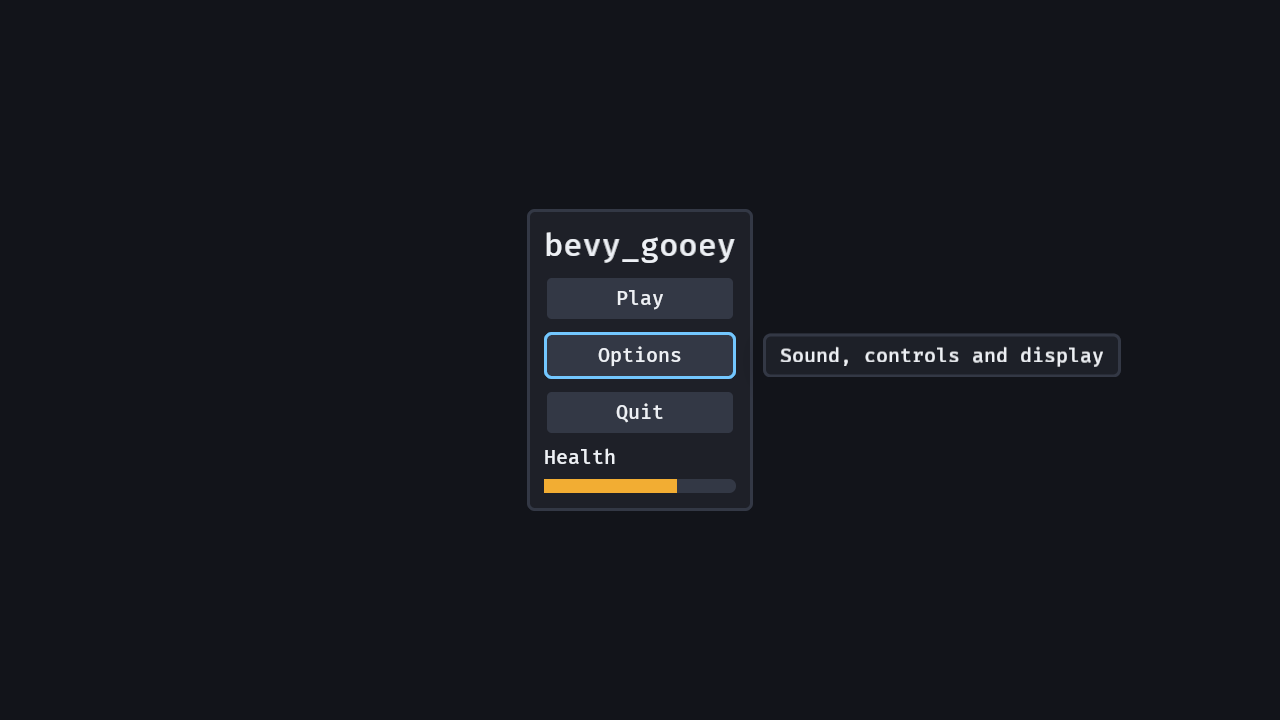
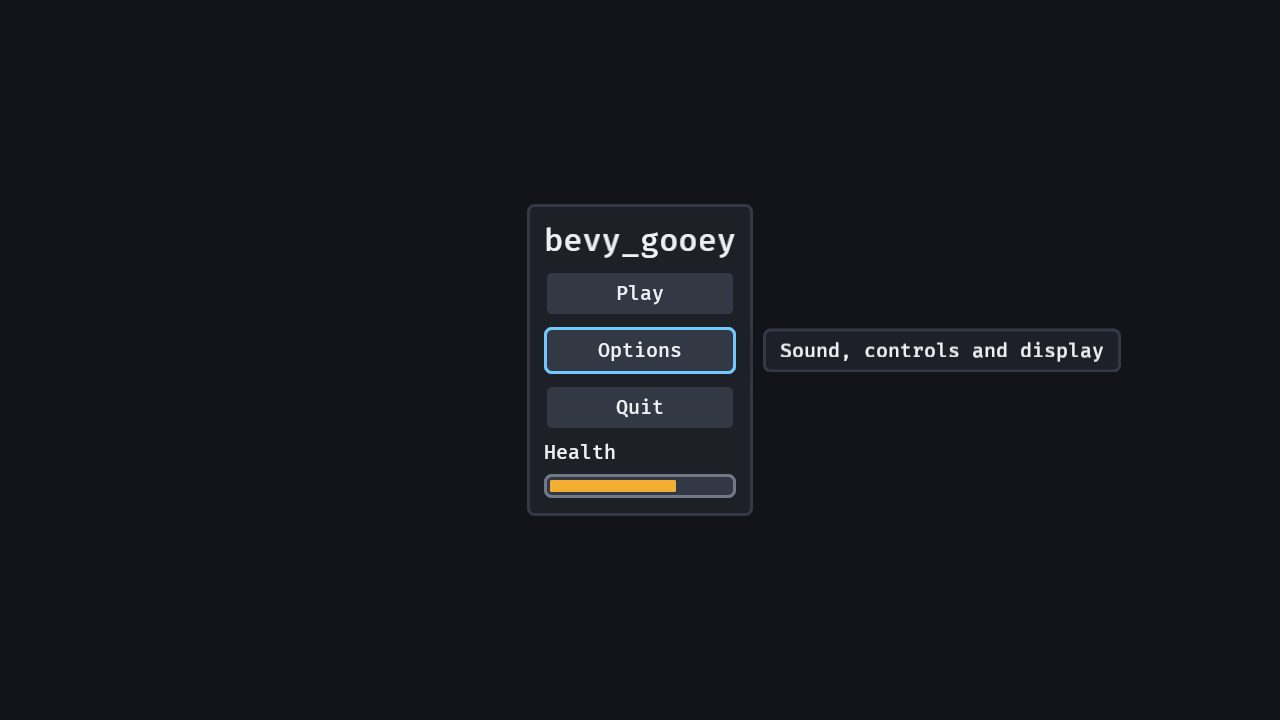
WIP(pass 9, checkpoint): tree saved by the driver, never committed to a branch
Not gated, not on any branch, and not seen by the pass: the index and HEAD are untouched.
Recover with: git -C /home/ladvien/bevy_gooey_loop show refs/wiggum/pass-9-checkpoint-20261030-122343

Changed region(s): [[0.4062, 0.275, 0.875, 0.7333]]

diff --git a/tests/meter.rs b/tests/meter.rs
@@ -73,12 +73,24 @@ fn a_fill_sits_inside_its_frame_with_a_gap_all_round_and_concentric_corners() {
     let (outer, inner) = (rect(&app, track), rect(&app, fill));
     let inset = 2.0 * skin.border;
     // The frame and the gap on every side: the fill never touches the frame or pokes out.
-    assert!((inner.min.x - outer.min.x - inset).abs() < 0.5, "{outer:?} {inner:?}");
-    assert!((inner.min.y - outer.min.y - inset).abs() < 0.5, "{outer:?} {inner:?}");
-    assert!((outer.max.y - inner.max.y - inset).abs() < 0.5, "{outer:?} {inner:?}");
+    assert!(
+        (inner.min.x - outer.min.x - inset).abs() < 0.5,
+        "{outer:?} {inner:?}"
+    );
+    assert!(
+        (inner.min.y - outer.min.y - inset).abs() < 0.5,
+        "{outer:?} {inner:?}"
+    );
+    assert!(
+        (outer.max.y - inner.max.y - inset).abs() < 0.5,
+        "{outer:?} {inner:?}"
+    );
     // As long as its value says, of the room inside the frame and gap.
     let room = outer.width() - 2.0 * inset;
-    assert!((inner.width() - 0.6 * room).abs() < 1.0, "{outer:?} {inner:?}");
+    assert!(
+        (inner.width() - 0.6 * room).abs() < 1.0,
+        "{outer:?} {inner:?}"
+    );
     // Framed in a colour the panel cannot hide.
     assert_eq!(
         app.world().get::<BorderColor>(track),

diff --git a/src/skin.rs b/src/skin.rs
@@ -589,8 +589,7 @@ fn restyle(
             // inside it, on the track, because no one colour contrasts with both.
             Role::Meter => {
                 next.height = Val::Px(skin.meter_height * skin.text_scale);
-                next.min_width =
-                    Val::Px(skin.text_size * skin.text_scale * METER_MIN_TEXT_SIZES);
+                next.min_width = Val::Px(skin.text_size * skin.text_scale * METER_MIN_TEXT_SIZES);
                 next.border = UiRect::all(Val::Px(skin.border));
                 next.padding = UiRect::all(Val::Px(skin.border));
                 next.border_radius = radius;

diff --git a/docs/research/meter.md b/docs/research/meter.md
@@ -10,7 +10,8 @@ Researched 2026-10-30 (iteration 3, begun by a pass that was cut off; its draft 
 4. Material Components for Android, *Progress indicators* — https://github.com/material-components/material-components-android/blob/master/docs/components/ProgressIndicator.md (technical: a shipping design system's bar meter, and how it met the non-text contrast rule).
 5. W3C WAI, *Understanding SC 1.4.11: Non-text Contrast* (WCAG 2.2) — https://www.w3.org/WAI/WCAG22/Understanding/non-text-contrast.html (technical).
 6. W3C, *CSS Backgrounds and Borders Module Level 3*, §4.2 *Corner Shaping* and §4.3 *Corner Clipping* — https://www.w3.org/TR/css-backgrounds-3/ (technical: how a rounded box and its contents are meant to be drawn).
-7. Bevy 0.20 source: `bevy_ui-0.20.1/src/layout/clipping.rs` (a child is clipped with `push_rect`, a rectangle) and `ui_node.rs` (`Node` requires `BorderColor`; `clamp_corner` clamps a radius to half the box) (technical: what the engine does).
+7. Bevy 0.20 source: `bevy_ui-0.20.1/src/layout/clipping.rs` (a child is clipped with `push_rect`, a rectangle), `ui_node.rs` (`Node` requires `BorderColor`) and `bevy_ui_render-0.20.1/src/ui.wesl` (`sd_inset_rounded_box` draws a border's inner curve at the outer radius less the border, as CSS does) (technical: what the engine does).
+8. Material Design 3, *Color roles* — https://m3.material.io/styles/color/the-color-system/key-colors-tones (technical: "There are two outline colors to be used against a surface: Outline: Important boundaries, such as a text field outline.").
 
 ## Craft principle
 
@@ -29,10 +30,10 @@ Material's bar meter met WCAG's non-text contrast rule by separating the parts o
 ## Model adopted
 
 - **M1. The fill is drawn inside the track, with the track's corner shape.** CSS §4.3: "other effects that clip painting … must clip to their respective curves. For example … overflow values other than visible to the curved padding edge". Bevy 0.20 does not: `clipping.rs` clips a child to a rectangle, so a rounded track with `Overflow::clip()` still shows its fill's square corners. The fill therefore carries its own radius.
-- **M2. The track's whole length is marked at 3:1 against the panel, by a frame.** WCAG 1.4.11 asks 3:1 for "Parts of graphics required to understand the content", and the track's length is required to read the value. No single track colour can sit 3:1 from both the panel and the fill in either preset (dark: the track would need a relative luminance ≥ 0.144 against the panel and ≤ 0.131 against the amber fill; parchment: ≤ 0.179 against the panel and ≥ 0.318 against the oxblood fill). So, as Material did, the parts that cannot contrast are kept apart: the track gets a frame `border` px wide in `text_muted` (the panel's line weight, and the same thickness as the focus ring), and the fill sits one `border` inside that frame, on the track's own fill (`surface_raised`), the gap Material calls `indicatorTrackGapSize`. The frame against the panel carries the extent; the fill against the track carries the value. Understanding 1.4.11 passes the same anatomy for a radio button: "an inner filled circle with a gap between it and the outer border."
+- **M2. The track's whole length is marked at 3:1 against the panel, by a frame.** WCAG 1.4.11 asks 3:1 for "Parts of graphics required to understand the content", and the track's length is required to read the value. No single track colour can sit 3:1 from both the panel and the fill in either preset (dark: the track would need a relative luminance ≥ 0.144 against the panel and ≤ 0.131 against the amber fill; parchment: ≤ 0.179 against the panel and ≥ 0.318 against the oxblood fill). So, as Material did, the parts that cannot contrast are kept apart: the track gets a frame `border` px wide in `GooeySkin::outline` (the panel's line weight, and the same thickness as the focus ring), and the fill sits one `border` inside that frame, on the track's own fill (`surface_raised`), the gap Material calls `indicatorTrackGapSize`. The frame against the panel carries the extent; the fill against the track carries the value. Understanding 1.4.11 passes the same anatomy for a radio button: "an inner filled circle with a gap between it and the outer border."
 - **M3. The corners are concentric.** CSS §4.2: "The padding edge (inner border) radius is the outer border radius minus the corresponding border thickness. In the case where this results in a negative value, the inner radius is zero." And: "Likewise the content edge radius is the padding edge radius minus the corresponding padding, or if that is negative, zero." The frame's inner radius is `radius − border` (Bevy draws that itself); the fill fills the content box, so its radius is that minus the gap, `max(radius − 2 × border, 0)`.
 - **M4. The meter grows with the player's size option.** Its height is `GooeySkin::meter_height × text_scale`, as *The Last of Us Part II*'s HUD Scale enlarges HUD elements, so at 1.5× the bar keeps its proportion to the label above it. The frame and gap stay `border`, like every other line in the skin.
-- **M5. A skin is checked for both.** `GooeySkin::problems` checks `accent` (the fill) against `surface_raised` (the track) and `text_muted` (the frame) against the panel, each at 3:1.
+- **M5. A skin is checked for both.** `GooeySkin::problems` checks `accent` (the fill) against `surface_raised` (the track) and `outline` (the frame) against the panel, each at 3:1, and reports a meter whose frame and gap leave no room for a fill.
 
 ## Parameters
 
@@ -40,7 +41,8 @@ Material's bar meter met WCAG's non-text contrast rule by separating the parts o
 - Frame and gap: `GooeySkin::border` (3 px) each. A design default resting on "one visual language": the panel border and the focus ring are 3 px.
 - Radii: track 8 (`radius`), track interior 5 (Bevy's inner radius), fill `max(8 − 6, 0)` = 2.
 - Least length: 8 text sizes, `8 × text_size × text_scale` (160 px at 1×, the old fixed least width; 240 px at 1.5×). A design default.
-- Contrast, computed from the presets' colours: fill on track dark 6.04:1, parchment 4.68:1; frame (`text_muted`) on the panel dark 6.63:1, parchment 4.63:1.
+- Frame colour: the new `GooeySkin::outline`, dark `srgb(0.44, 0.47, 0.54)`, parchment `srgb(0.48, 0.38, 0.27)`: about 3.7:1 against the panel in both skins, just over 3:1 with a margin for antialiasing, so the meter's frame stays quieter than the focus ring (6.3:1 on the raised surface). A design default.
+- Contrast, computed from the presets' colours: fill on track dark 6.04:1, parchment 4.68:1; frame on the panel dark 3.67:1, parchment 3.79:1.
 
 ## Validation targets
 
@@ -50,7 +52,7 @@ Material's bar meter met WCAG's non-text contrast rule by separating the parts o
 - At `text_scale` 1.5 the meter is 36 px high (before: 14 px, under a 30 px label).
 - A meter near empty (fill narrower than twice its radius) draws a small rounded sliver inside the frame, not nothing.
 - The fill's length stays proportional: `fill / interior width` = value / max within 1 px.
-- `problems()` stays empty for both presets; an accent equal to `surface_raised` reports `accent on surface_raised`; a `text_muted` equal to the panel reports `text_muted on surface`.
+- `problems()` stays empty for both presets; an accent equal to `surface_raised` reports `accent on surface_raised`; an `outline` equal to the panel reports `outline on surface`; a frame and gap that fill the whole meter report `MeterTooThin`.
 - No frame-time cost: the same two nodes; a border, a radius and padding set once by `apply_skin`.
 
 ## What great looks like
@@ -62,9 +64,9 @@ A health bar a player reads from the couch at a glance: a framed slot with the p
 - Bevy's rectangular clip is the deviation from CSS §4.3; the crate rounds the fill itself (M1) instead of relying on the track's clip.
 - The meter's height moves from the widget (`height: 14px`) into the skin, per the crate's rule that only `apply_skin` sizes a widget. Default 24 px (was 14) to make room for the frame and the gap; a design default.
 - Material marks the track's end with a 4 dp stop dot; this crate frames the whole track instead. A frame marks both ends, keeps the skin's one line weight, and a 3 px line survives couch distance where a 4 px dot is easy to lose; it is also how framed game health bars are drawn. A design choice, recorded.
-- `text_muted` gains a second job (a disabled button's text and a meter's frame) rather than adding a colour to the skin. One fewer field for a project to set; `problems()` checks it for the frame's job.
+- The frame has a colour of its own, `GooeySkin::outline`, as Material 3's *Outline* role ("Important boundaries"). Drawn in `text_muted` first (6.6:1 in the dark skin), the frame was as bright and as thick as the focus ring and the meter read as a text field or a second focus (`/tmp/g3b/r1/dark.png`); `outline` is set at about 3.7:1 instead. Later widgets whose fill does not show their size (a checkbox's box, a slider's track) take the same colour.
 
 ## Pending index
 
-- Index Hodent's GDC 2015 write-up, Naughty Dog's accessibility post and Material's progress indicator page into home-still.
+- Index Hodent's GDC 2015 write-up, Naughty Dog's accessibility post, Material's progress indicator page and Material 3's colour roles into home-still.
 - Searched and not found in the corpus: a shipped game's write-up on health-bar framing ("health bar HUD meter design readability", "progress bar track and fill contrast"). A GDC talk on HUD bar design would replace Material as the shipping-game source for M2.

diff --git a/CHANGELOG.md b/CHANGELOG.md
@@ -4,7 +4,7 @@
 
 ### Added
 
-- `GooeySkin`, the look as serde data, with the `dark()` and `parchment()` presets, a `text_scale` player option, `problems()` (WCAG 2.2 contrast and target-size checks, as `SkinProblem`) and `solid_surface()`, the opaque fill of a panel in a dialog.
+- `GooeySkin`, the look as serde data, with the `dark()` and `parchment()` presets, a `text_scale` player option, `outline` (the edge of a widget whose fill does not show its size, such as a meter's frame), `meter_height`, `problems()` (WCAG 2.2 contrast and target-size checks, as `SkinProblem`, including a meter's fill against its track, its frame against the panel, and a meter too thin for its fill) and `solid_surface()`, the opaque fill of a panel in a dialog.
 - `GooeyFonts`, the host's body and heading fonts.
 - `Role` and `apply_skin`, the one place every widget is styled.
 - `screen()`, a full-window, centring tab group.
@@ -12,7 +12,7 @@
 - `menu()`, a column of buttons.
 - `heading()` and `label()`, text in the skin's sizes and fonts.
 - `button()`, Bevy's headless button, styled by its rest, hover, press, disabled and focus states.
-- `meter()` and `Meter`, a HUD bar whose fill follows `value / max`, never NaN.
+- `meter()` and `Meter`, a HUD bar whose fill follows `value / max`, never NaN. The track is framed in `outline`, so its whole length reads against the panel; the fill sits one `border` inside the frame with concentric rounded corners; the bar is `meter_height × text_scale` high, so it grows with the player's size option.
 - `Tooltip`, a line of help beside a widget, shown while the pointer is over it or while it has visible focus, so a keyboard or pad player sees it too. It opens across its container's flow (to the right in a column, below in a row) one `gap` outside the widget's panel, flips at the window's edge (Bevy's `Popover`), and never covers a neighbouring widget. It is drawn as a small raised panel with a drop shadow. `TooltipBox` marks its box; `show_tooltips` opens and shuts it.
 - `dialog()`, a modal veil that holds focus: on opening, focus moves to its first button (or its `AutoFocus` child); Tab, the arrows and the D-pad stay inside it; on closing, focus returns to the widget that opened it. A panel in it is drawn opaque, so nothing behind shows through its text. `Dialog` is its focus bookkeeping; `focus_opened_dialogs` moves focus in.
 - `navigate_by_input` (arrows and D-pad move focus, within the same scope Tab cycles) and `gamepad_select` (South activates).

diff --git a/docs/research/gooey.md b/docs/research/gooey.md
@@ -53,8 +53,9 @@ Not from home-still: W3C, *Web Content Accessibility Guidelines (WCAG) 2.2* — 
 |accent_text|srgb(0.10,0.08,0.05)|srgb(0.97,0.93,0.85)|
 |danger|srgb(0.86,0.27,0.24)|srgb(0.70,0.12,0.10)|
 |focus_ring|srgb(0.45,0.78,1.0)|srgb(0.12,0.38,0.55)|
+|outline|srgb(0.44,0.47,0.54)|srgb(0.48,0.38,0.27)|
 |scrim|srgba(0,0,0,0.6)|srgba(0.08,0.05,0.02,0.55)|
-|sizes|text 20, heading 32, gap 10, padding 14, radius 8, border 3, min_target 44, text_scale 1.0|same|
+|sizes|text 20, heading 32, gap 10, padding 14, radius 8, border 3, meter_height 24, min_target 44, text_scale 1.0|same|
 
 ## Validation targets
 
@@ -67,6 +68,8 @@ WCAG contrast of the presets (relative luminance, `surface` composited over `bac
 |text on hovered button|5.16|4.92|
 |accent_text on accent|9.42|7.38|
 |focus_ring on surface_raised|6.32|3.65|
+|accent on surface_raised (a meter's fill on its track, 3:1)|6.04|4.68|
+|outline on surface (a meter's frame on the panel, 3:1)|3.67|3.79|
 
 - `min_target` ≥ 24 px (44 px default).
 - A focus move is drawn one frame after the input: `GooeySystems::Navigate` runs before `GooeySystems::Style` in the same `Update`.

diff --git a/README.md b/README.md
@@ -79,7 +79,9 @@ Every widget composes inside `children![]`, and a button acts through an `Activa
 
 - text under 4.5:1 contrast against the surface, the raised surface, a hovered button, or the accent (WCAG 2.2, 1.4.3);
 - a focus ring under 3:1 against the raised surface (WCAG 2.2, 1.4.11);
+- a meter's fill (the accent) under 3:1 against its track, or its frame (`outline`) under 3:1 against the panel (WCAG 2.2, 1.4.11);
 - `min_target` under 24 px (WCAG 2.2, 2.5.8; the default is 44 px);
+- a meter too thin to show a fill inside its frame and gap (`meter_height × text_scale` at most 4 × `border`);
 - a size that is not finite, or not positive where it must be.
 
 Fonts are yours: set `GooeyFonts { body, heading }`. The default draws Bevy's built-in font when Bevy's `default_font` feature is on.
